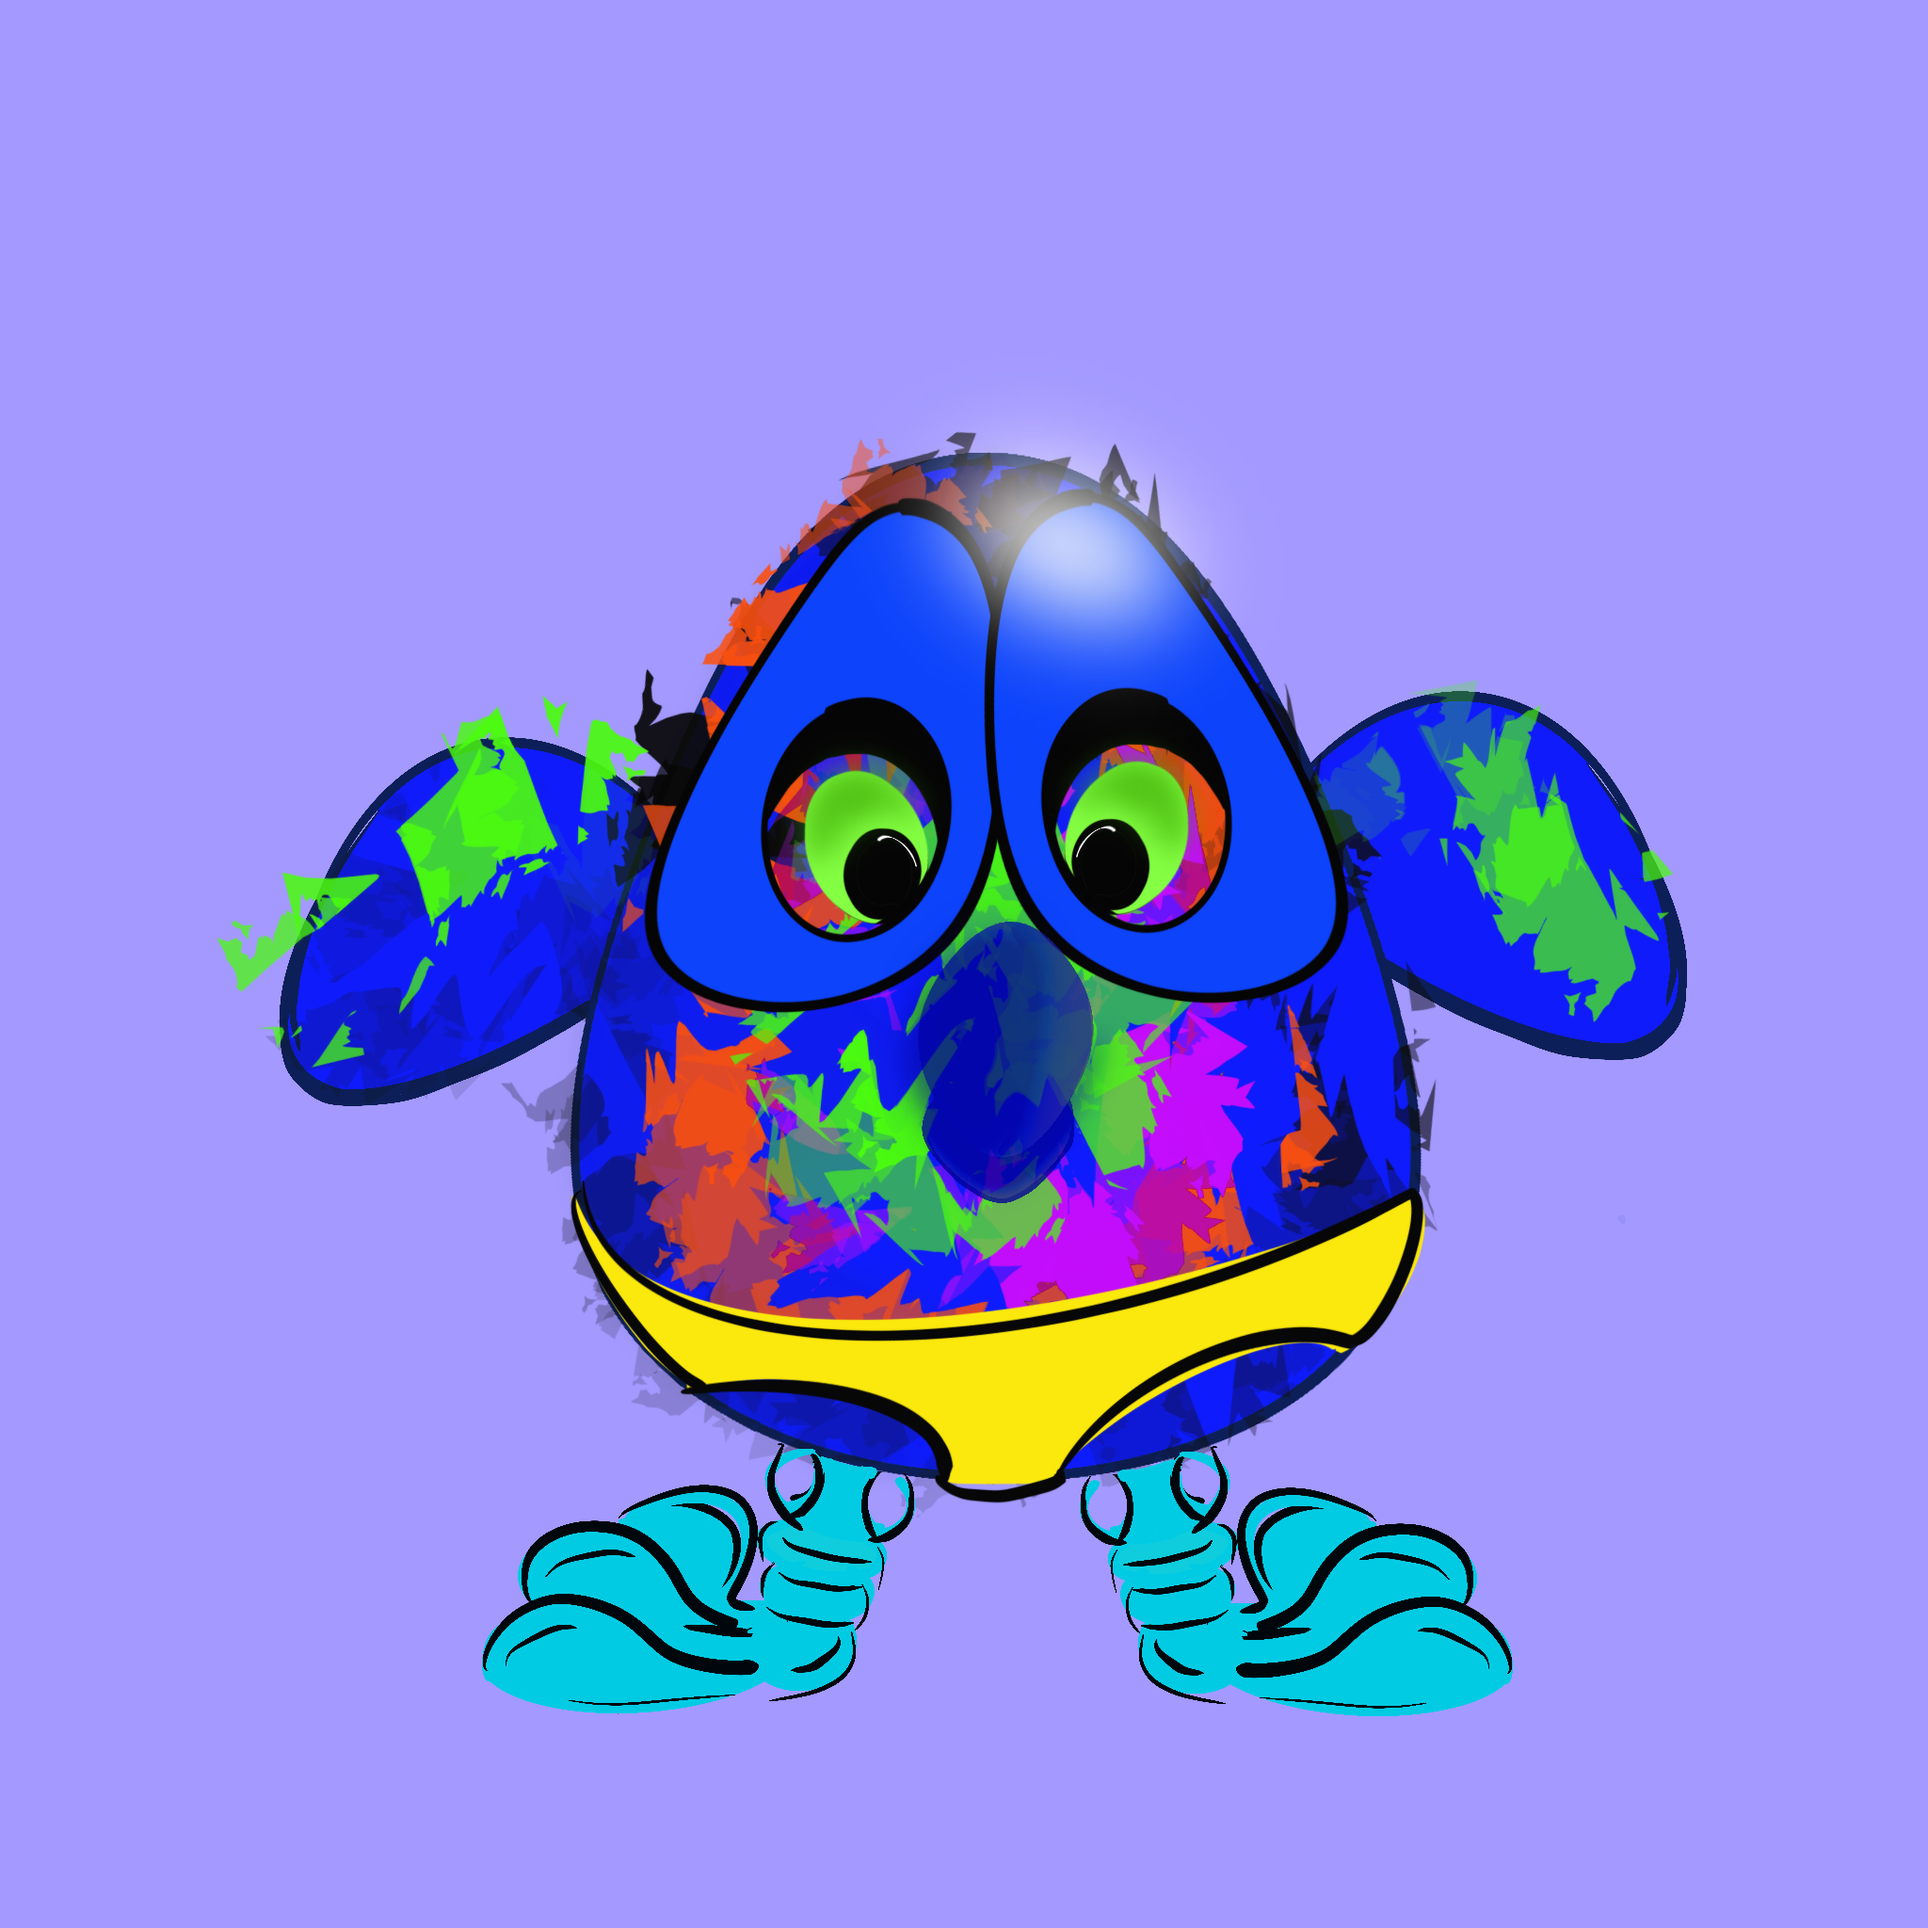
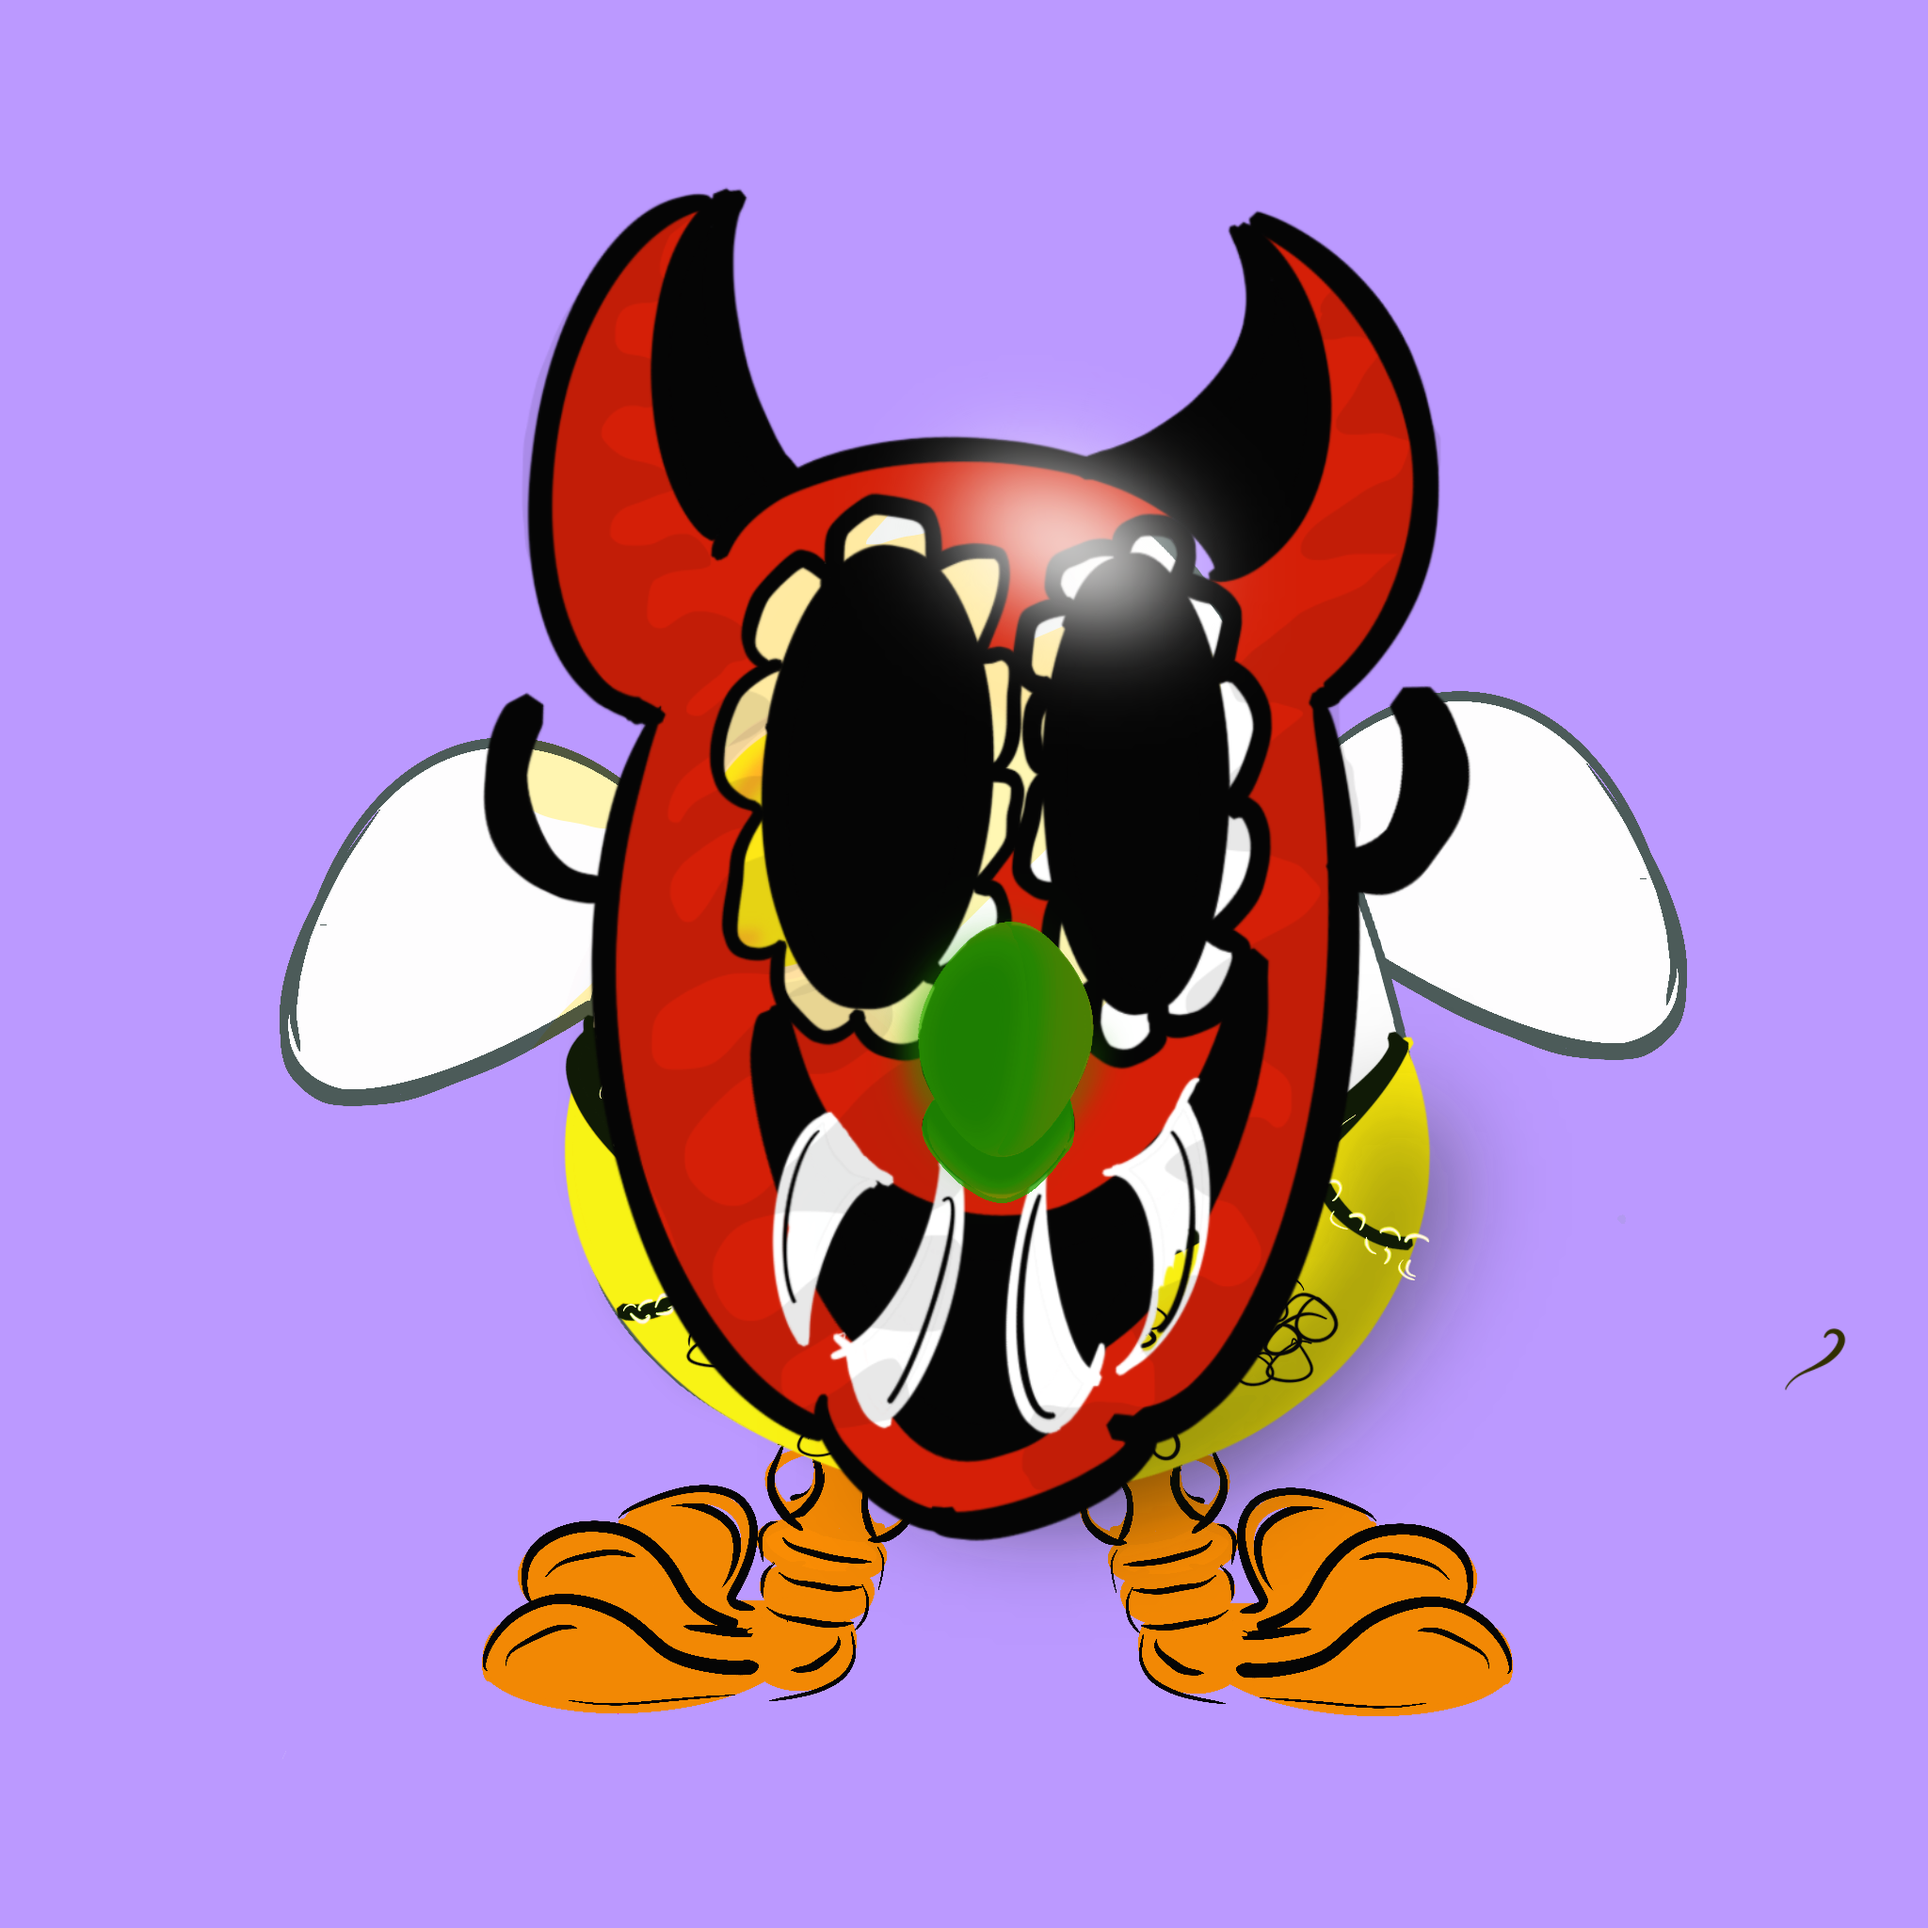
added hats to img delete last run

diff --git a/frontend/js/constants.js b/frontend/js/constants.js
@@ -1,9 +1,9 @@
 const contractAddress = "YOUR CONTRACT ADDRESS"; //Replace with your own contract address
 const chain = 'rinkeby'; // rinkeby or polygon
 
-const welcome_h1 = "Welcome to the CodeCats NFT Project!!";
+const welcome_h1 = "Welcome to Birdley's NFTie Adventure";
 const welcome_h2 = "Connect to MetaMask to Get Started";
-const welcome_p = 'The CodeCats NFT Project is a decentralized, open-source project that aims to demonstrate how to develope and launch your own NFT Collection. Follow step by step on the <a href="https://youtube.com/codestackr"  target="_blank" rel="noopener noreferrer">codeSTACKr</a> YouTube channel.';
+const welcome_p = "Join Birdley on his random adventures and his constant new outfits... Also keep an eye out for his new P.I.C";
 const h1_presale_coming_soon = "NFT Drop Coming Soon!!";
 const h1_presale_mint = "Pre-Sale Minting Open!!";
 const h1_public_mint = "Public Minting Open!!";

diff --git a/frontend/index.html b/frontend/index.html
@@ -70,9 +70,9 @@
     <section class="container not-connected">
       <div>
         <h2 id="welcomeH2">Connect to MetaMask to Get Started</h2>
-        <h1 id="welcomeH1">Welcome to the CodeCats NFT Project!</h1>
+        <h1 id="welcomeH1">Welcome to Birdley's NFTie Adventure</h1>
         <p id="welcomeP">
-          The CodeCats NFT Project is a decentralized, open-source project that aims to demonstrate how to develope and launch your own NFT Collection. Follow step by step on the <a href="https://youtube.com/codestackr"  target="_blank" rel="noopener noreferrer">codeSTACKr</a> YouTube channel.
+          Join Birdley on his random adventures and his constant new outfits... Also keep an eye out for his new P.I.C 
         </p>
       </div>
     </section>

diff --git a/backend/src/config.js b/backend/src/config.js
@@ -19,6 +19,7 @@ const layerConfigurations = [
       { name: "Body" },
       { name: "Feet" },
       { name: "Pants" },
+      { name: "Hat" },
       { name: "Eyes" },
       { name: "Beak" },
       { name: "white" },
